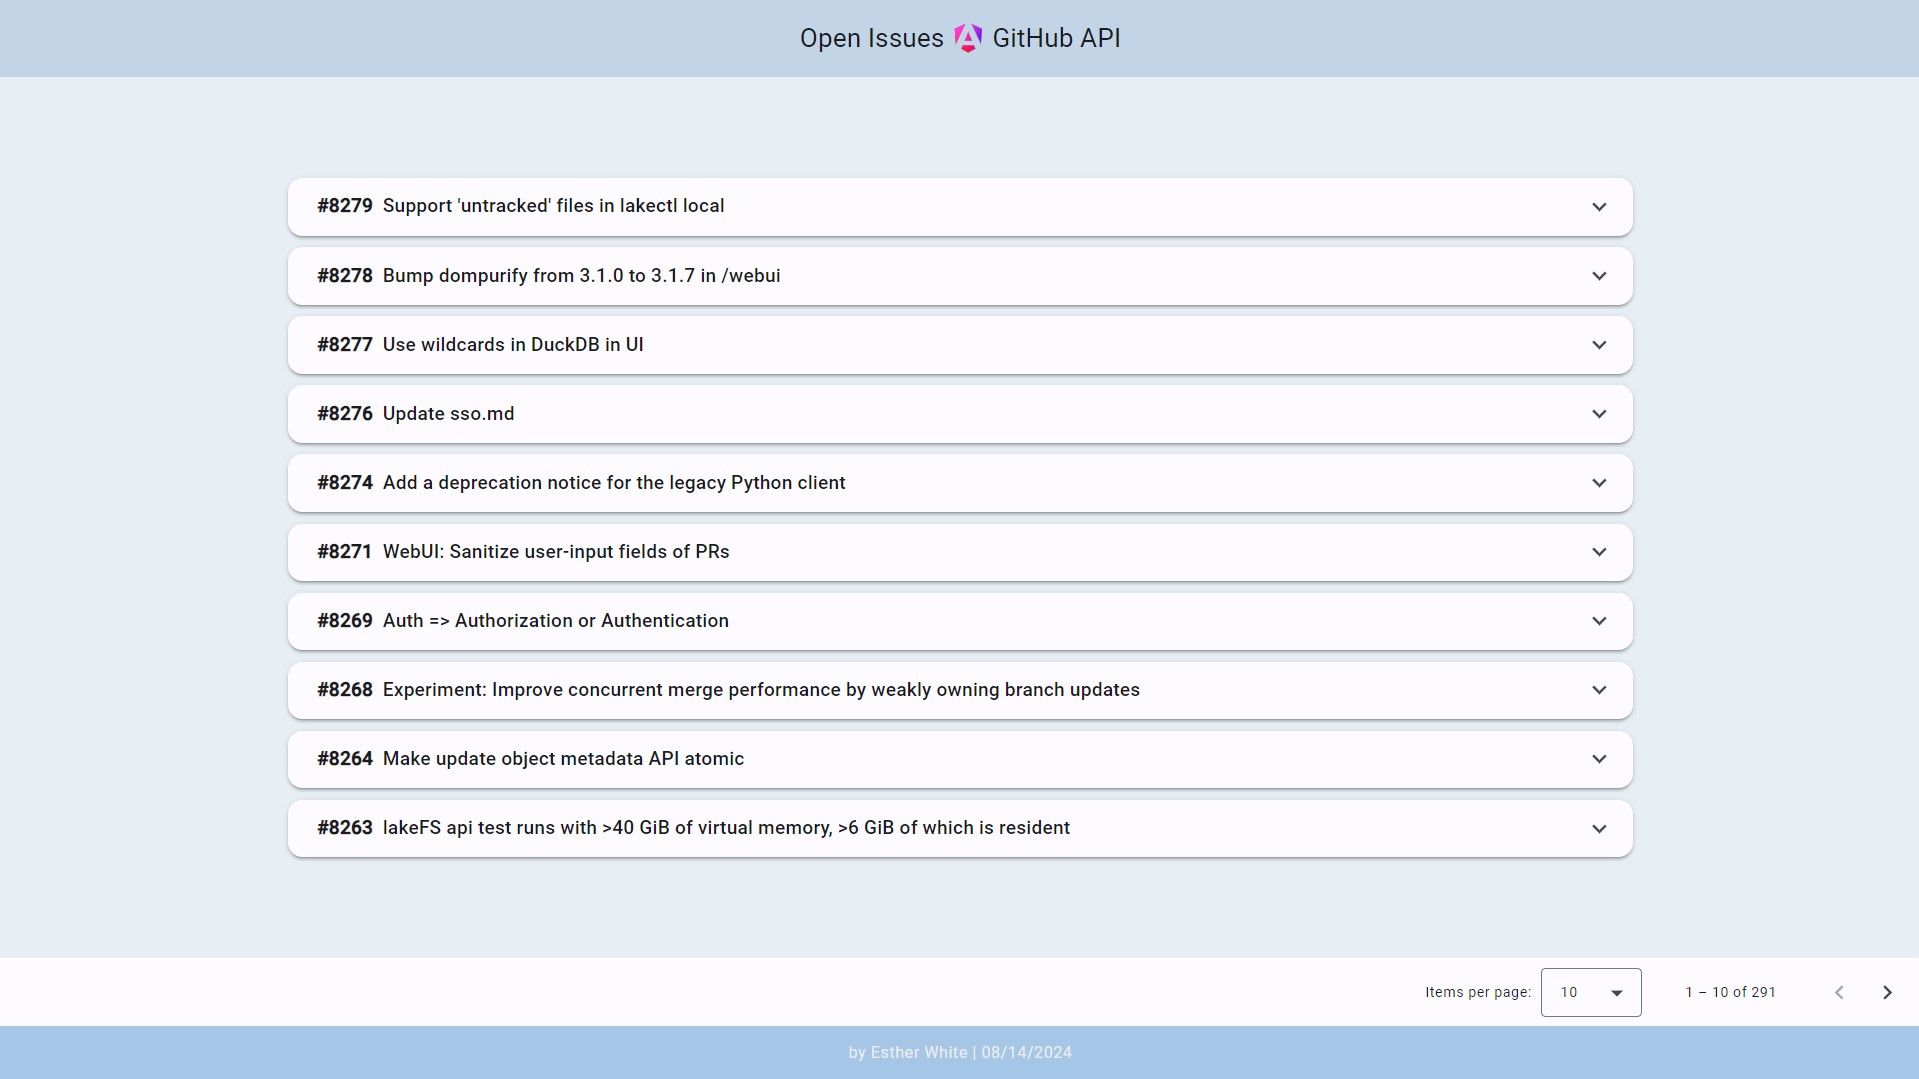
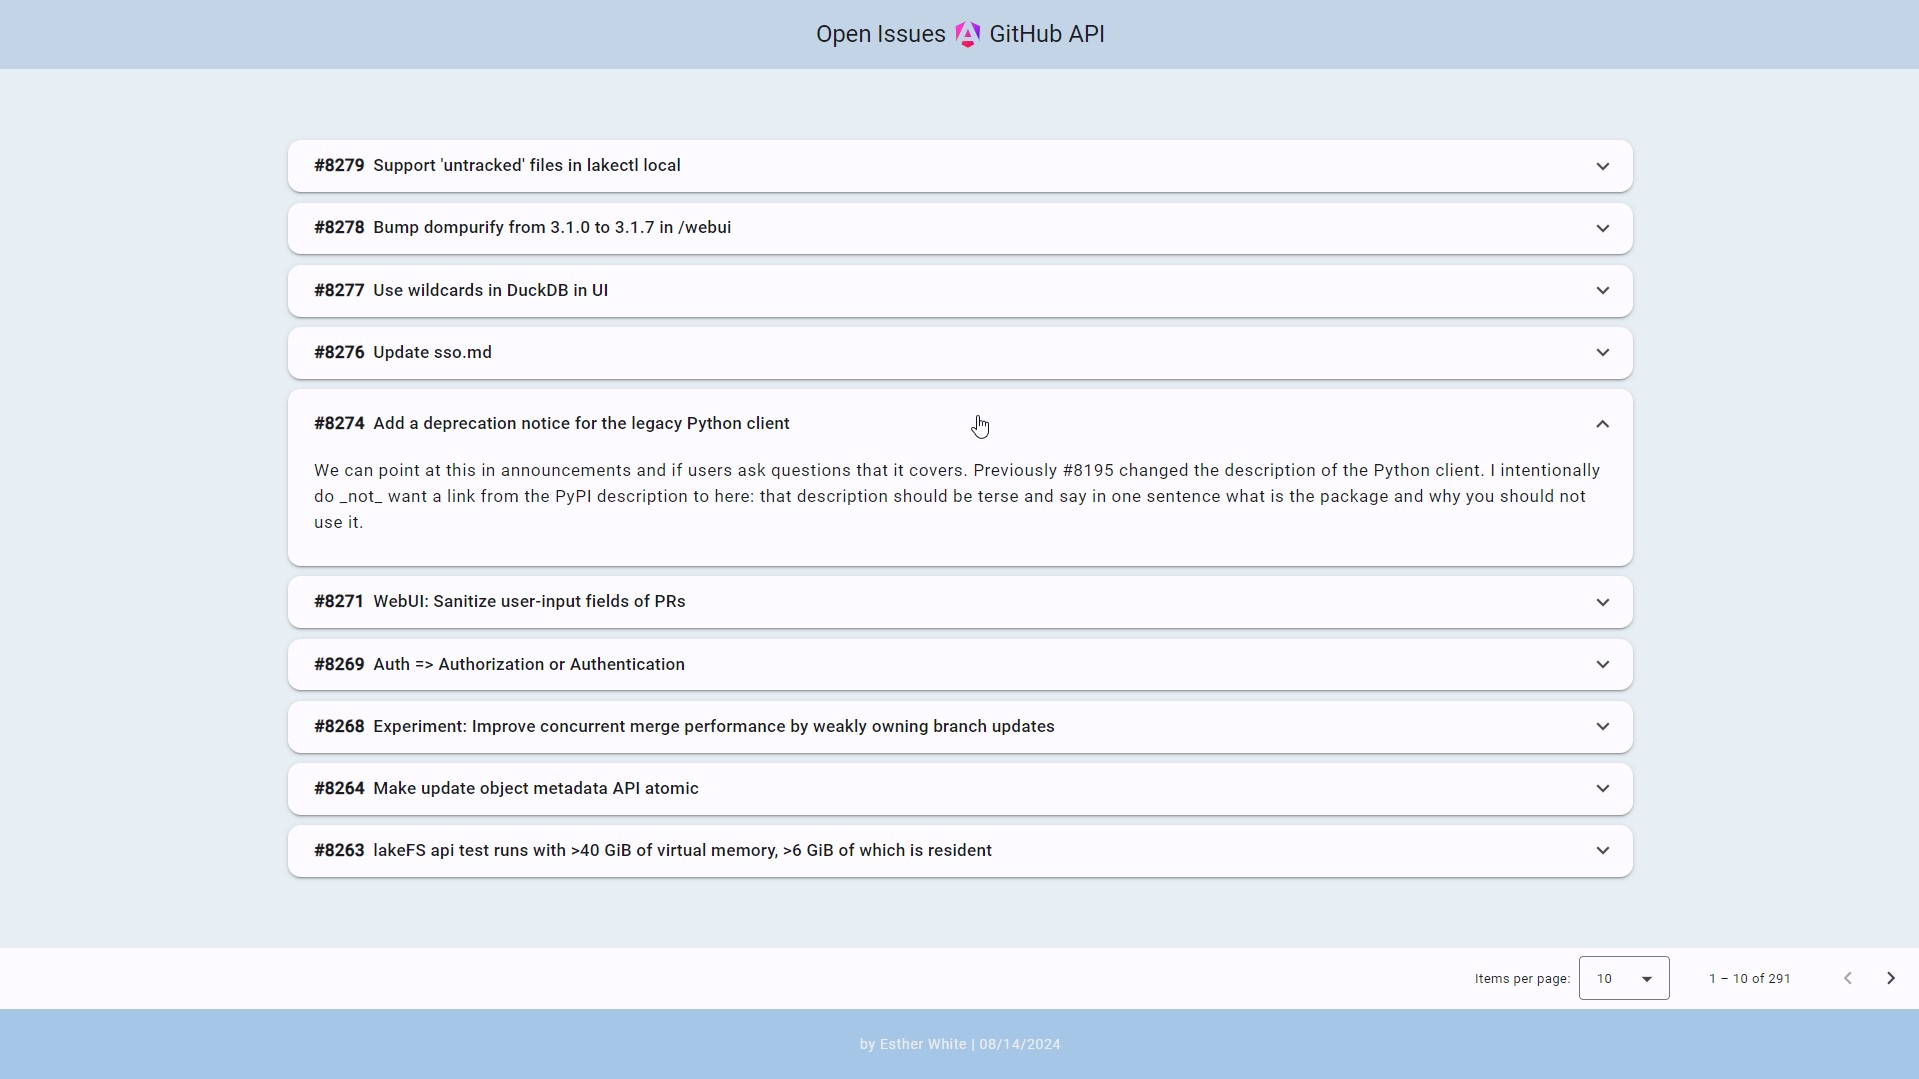
minor

Changed region(s): [[0.1537, 0.1529, 0.8609, 0.8258], [0.0, 0.0, 1.0, 0.0918], [0.0, 0.8869, 1.0, 0.9787]]

diff --git a/lfs-angular/src/app/app.component.html b/lfs-angular/src/app/app.component.html
@@ -20,5 +20,5 @@
 <mat-paginator [length]="totalIssues" [pageSize]="pageSize" [pageSizeOptions]="[10, 20, 30]" (page)="onPageChange($event)"></mat-paginator>
 
 <footer>
-  <small>by <a href="https://monacodelisa.com" target="_blank">Esther White</a> | 08/14/2024</small>
+  <small>developed by <a href="https://monacodelisa.com" target="_blank">Esther White</a> | 08/14/2024</small>
 </footer>

diff --git a/lfs-angular/src/app/app.component.scss b/lfs-angular/src/app/app.component.scss
@@ -41,7 +41,7 @@ mat-toolbar {
 footer {
   background-color: #a5c6e9;
   color: #ececec;
-  padding: 10px;
+  padding: 1.3rem;
   text-align: center;
 
   a {
